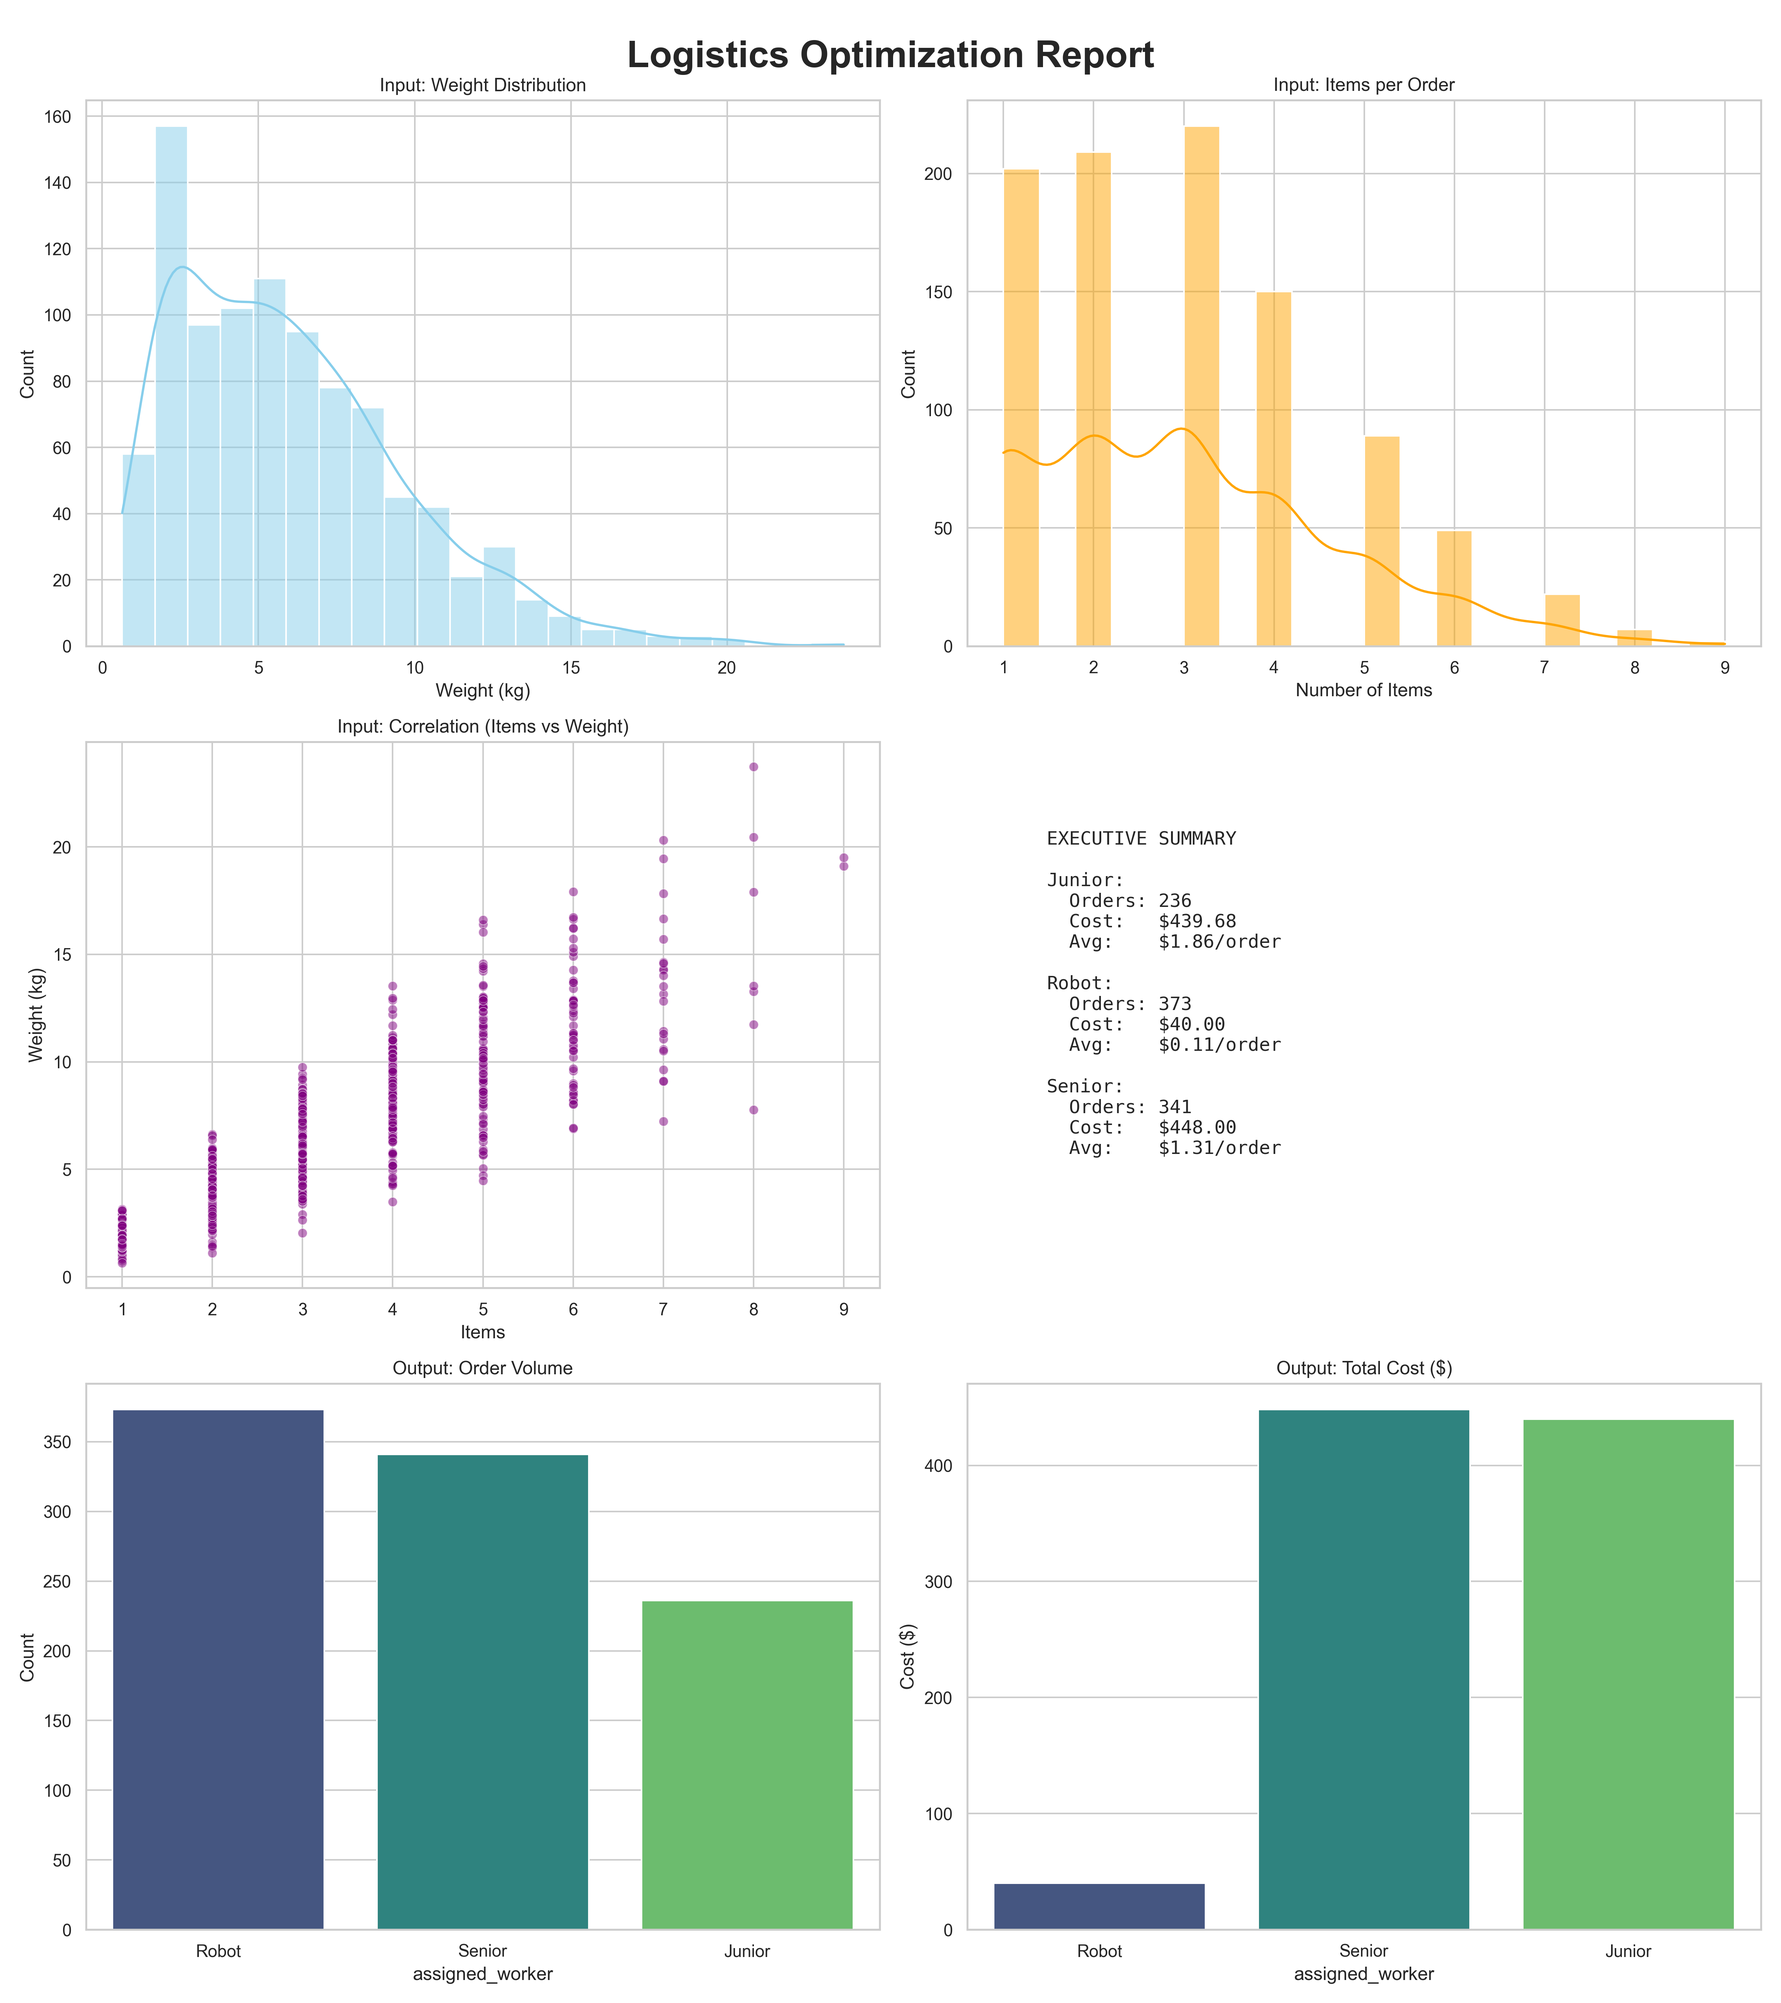
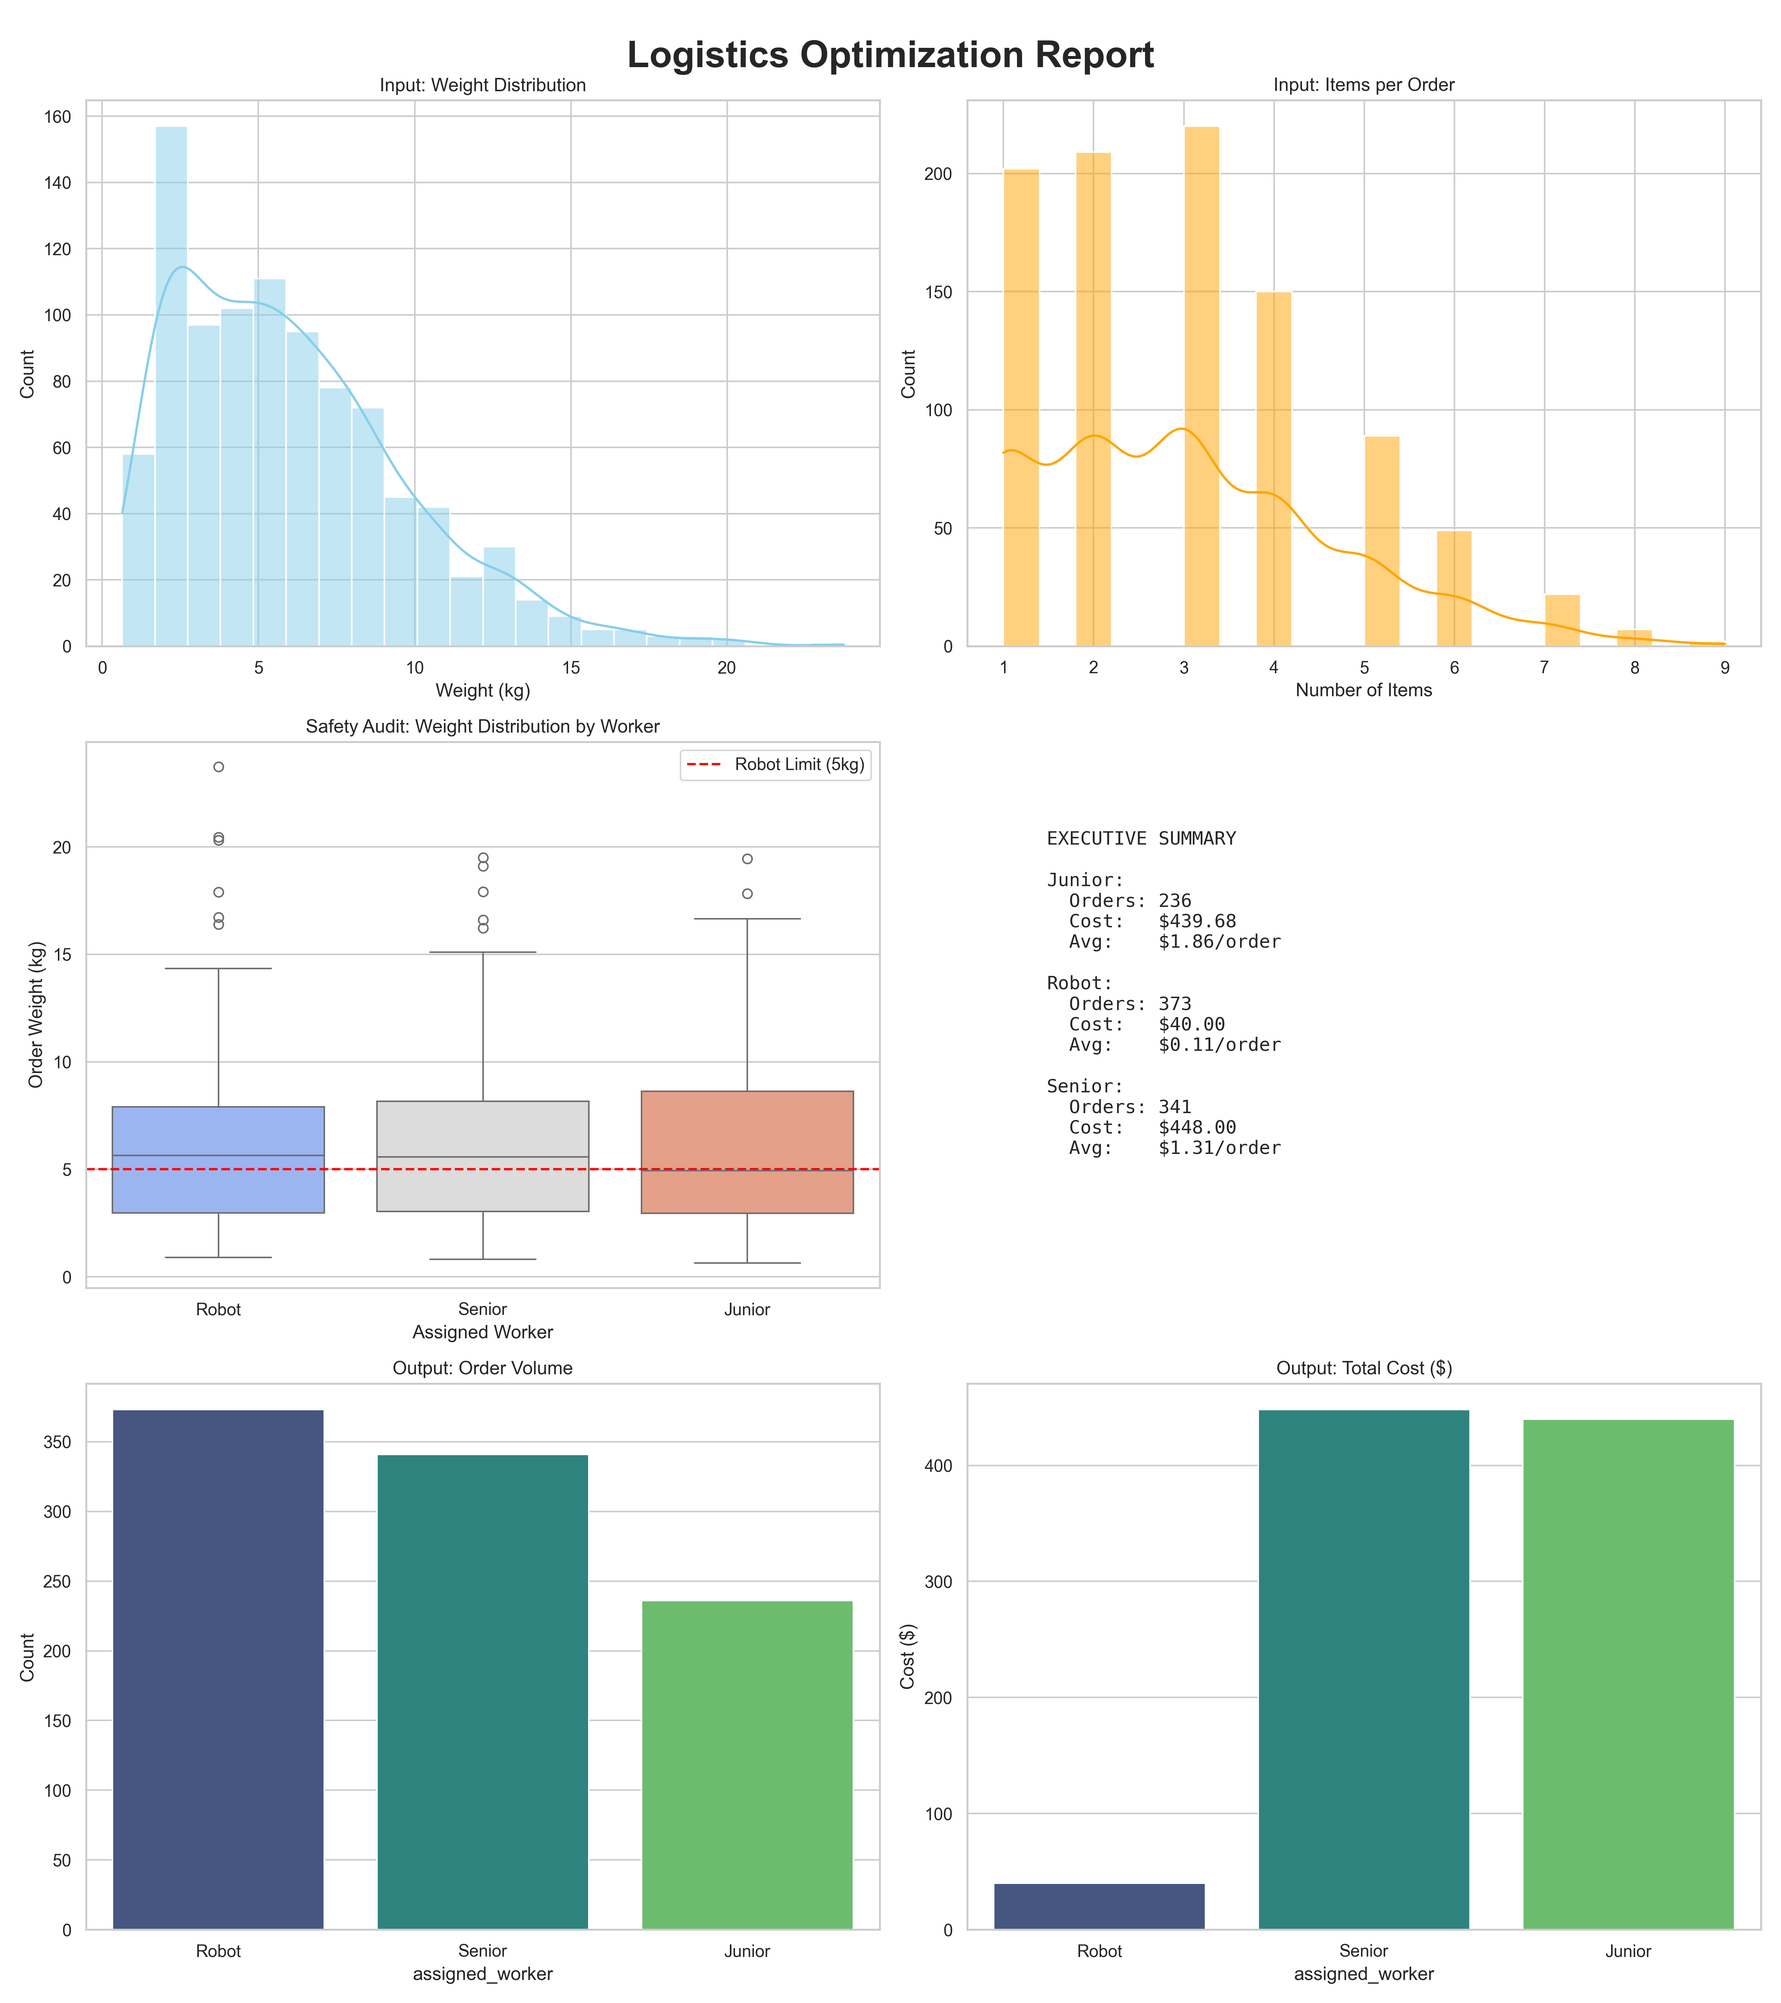
Day 5: Implemented main.py orchestration driver and fixed environment paths

diff --git a/src/visualize_logistics.py b/src/visualize_logistics.py
@@ -2,7 +2,7 @@ import sqlite3
 import pandas as pd
 import matplotlib.pyplot as plt
 import seaborn as sns
-from optimize_logistics import optimize_schedule, WORKERS, DB_PATH
+from setup_db import DB_PATH
 
 # --- CONFIGURATION ---
 OUTPUT_PATH = "reports/dashboard.png"
@@ -22,41 +22,23 @@ def load_data():
     conn.close()
     return df
 
-def run_optimization(df):
+def load_results():
     """
-    Gets solution by running optimizer and return results as a clean DataFrame
+    Loads the optimization results directly from the SQL 'assignments' table
     """
-    print("--- Running Optimization Model ---")
-
-    # 1. Run optimization
-    prob, choices, order_ids, worker_names = optimize_schedule(df)
-    
-    # 2. Extract results: Same logic used in save_results() from optimize_logistics
-    results = []
-    for i, row in df.iterrows():
-        oid = row['order_id']
-        assigned_worker = None
+    print("--- Loading Assignments from SQL ---")
+    conn = sqlite3.connect(DB_PATH)
+    try:
+        results_df = pd.read_sql_query("SELECT * FROM assignments", conn)
+        print(f"Loaded {len(results_df)} assignments.")
+    except Exception as e:
+        print(f"Error loading results: {e}")
+        print("Did you run the optimization step? The 'assignments' table might be missing.")
+        results_df = pd.DataFrame() # Return empty if failed
+    finally:
+        conn.close()
         
-        for worker in worker_names:
-            if choices[oid][worker].varValue > 0.5:
-                assigned_worker = worker
-                break
-        
-        # 3. Calculate specific cost for current assignment
-        if assigned_worker:
-            speed = WORKERS[assigned_worker]["speed"]
-            wage  = WORKERS[assigned_worker]["wage"]
-            cost  = (row['num_items'] / speed) * wage
-            
-            results.append({
-                "order_id": oid,
-                "assigned_worker": assigned_worker,
-                "cost": cost,
-                "num_items": row['num_items'],
-                "total_weight_kg": row['total_weight_kg']
-            })
-            
-    return pd.DataFrame(results)
+    return results_df
 
 # --- 1. MODULAR PLOTTING FUNCTIONS ---
 
@@ -112,9 +94,39 @@ def draw_summary_text(results_df, ax):
         
     ax.text(0.1, 0.5, text_str, fontsize=12, fontfamily='monospace', va='center')
 
+def plot_safety_audit(results_df, ax=None):
+    """
+    Visualizes the weight range handled by each worker type.
+    """
+    if ax is None: fig, ax = plt.subplots()
+    
+    worker_order = ["Robot", "Senior", "Junior"]
+    
+    # Box Plot: Shows the Median, Quartiles, and Outliers
+    sns.boxplot(
+        data=results_df, 
+        x="assigned_worker", 
+        y="total_weight_kg",   # Note: In run_optimization, we mapped 'total_weight_kg' to 'weight'
+        order=worker_order, 
+        palette="coolwarm", # distinct colors for contrast
+        ax=ax
+    )
+    
+    ax.set_title("Safety Audit: Weight Distribution by Worker")
+    ax.set_ylabel("Order Weight (kg)")
+    ax.set_xlabel("Assigned Worker")
+    
+    # Add a red reference line at 5kg (The hypothetical "Safe Limit")
+    ax.axhline(y=5, color='red', linestyle='--', linewidth=1.5, label='Robot Limit (5kg)')
+    ax.legend(loc='upper right')
+
 # --- 2. THE DASHBOARD BUILDER ---
 
 def save_dashboard(clean_df, results_df):
+    """
+    Generates the final 6-panel dashboard.
+    Updated: Replaced Scatter Plot with Safety Audit Box Plot.
+    """
     print("--- Generating 6-Panel Dashboard ---")
     
     # 3 Rows, 2 Columns (Size = 16x18 to fit everything)
@@ -125,8 +137,8 @@ def save_dashboard(clean_df, results_df):
     plot_weight_distribution(clean_df, ax=axes[0, 0])
     plot_items_distribution(clean_df, ax=axes[0, 1])
     
-    # Row 2: Correlation & Summary
-    plot_correlation(clean_df, ax=axes[1, 0])
+    # Row 2: Audit & Summary
+    plot_safety_audit(results_df, ax=axes[1, 0])
     draw_summary_text(results_df, ax=axes[1, 1]) # <--- The "Empty" Slot
     
     # Row 3: Outputs
@@ -140,14 +152,19 @@ def save_dashboard(clean_df, results_df):
     plt.show()
     print(f"Dashboard saved to {OUTPUT_PATH}")
 
-
 if __name__ == "__main__":
-    # 1. Load data
+    # 1. Load Inputs(initial data)
     df = load_data()
-    print(f"Raw Data Loaded: {len(df)} records.")
     
-    # 2. Run the optimization and catch the results
-    results_df = run_optimization(df)
+    # 2. Load Outputs (for the "After" charts)
+    results_df = load_results()
     
-    # 3. Output dashboard
-    save_dashboard(df, results_df)
+    if not results_df.empty:
+        # 3. Generate the Dashboard
+        save_dashboard(df, results_df)
+        
+        # 4. Show the Safety Audit (Pop-up for quick check)
+        # plot_safety_audit(results_df)
+        # plt.show()
+    else:
+        print("Skipping visualization because results are missing.")

diff --git a/src/optimize_logistics.py b/src/optimize_logistics.py
@@ -2,10 +2,9 @@ import sqlite3
 import pandas as pd
 import pulp
 from pathlib import Path
+from setup_db import DB_PATH
 
 # --- CONFIGURATION ---
-DB_PATH = Path("data/processed/fulfillment.db")
-
 # Time Horizon: 1 Day (8 Hour Shift)
 # Speed = Items per Hour
 # Wage = Dollars per Hour
@@ -51,9 +50,12 @@ def get_order_data():
     
     return df
 
-def optimize_schedule(df):
+def solve_model(df):
+    """
+    Constructs the LP problem, adds constraints, and calculates the optimal solution
+    Returns the raw PuLP objects needed to extract the answer
+    """
     print("\n--- OPTIMIZING ---")
-
     # 1. Initialize model: Use LpMinimize
     prob = pulp.LpProblem("Fulfillment_Cost_Minimization", pulp.LpMinimize)
     
@@ -66,7 +68,6 @@ def optimize_schedule(df):
     
     # 3. Define the objective variable: Cost = (Num Items / Speed) * Wage
     costs = []
-
     # Nested loop to calculate costs for each combination of order x worker
     for i, row in df.iterrows():
         oid = row['order_id']
@@ -81,6 +82,7 @@ def optimize_schedule(df):
 
             variable = choices[oid][worker]
             costs.append(cost_to_pack * variable)
+    
     # Objective Variable
     total_costs = pulp.lpSum(costs)
             
@@ -96,8 +98,7 @@ def optimize_schedule(df):
         worker_switches = [choices[oid][w] for w in worker_names]
 
         # Number of workers of each order = sum of worker switches
-        prob += pulp.lpSum(worker_switches) == 1, f"Single_Ownership_Order{oid}"
-        
+        prob += pulp.lpSum(worker_switches) == 1, f"Single_Ownership_Order{oid}"     
     print("Constraint added: Each order assigned to exactly one worker.")
     
     # Constraint 2: Daily Capacity Limits
@@ -115,10 +116,9 @@ def optimize_schedule(df):
         
         total_worked_hours = pulp.lpSum(worked_hours)
         prob += total_worked_hours <= limit, f"Max_Capacity_{worker}"
-        
     print("Constraint added: Shift capacity limits active.")
 
-    # 5. Solve the Problem
+    # 5. Solve
     prob.solve(pulp.PULP_CBC_CMD(msg=0))
     
     # Results
@@ -129,6 +129,10 @@ def optimize_schedule(df):
     return prob, choices, order_ids, worker_names
 
 def save_results(df, choices, workers):
+    """
+    Extracts the solution, saves it to SQL ('assignments' table)
+    Returns a clean DataFrame
+    """
     print("\n--- RESULTS ---")
     results = []
     
@@ -152,7 +156,9 @@ def save_results(df, choices, workers):
         results.append({
             "order_id": oid,
             "assigned_worker": assigned_worker,
-            "cost": cost
+            "cost": cost,
+            "num_items": row['num_items'],
+            "total_weight_kg": row['total_weight_kg']
         })
 
     # Convert to DataFrame
@@ -161,14 +167,18 @@ def save_results(df, choices, workers):
     # Print the summary
     print("Workforce Distribution:")
     print(results_df['assigned_worker'].value_counts())
-    
     print(f"\nTotal Cost of Operation: ${results_df['cost'].sum():,.2f}")
     
+    # Save to SQL
+    conn = sqlite3.connect(DB_PATH)
+    results_df.to_sql("assignments", conn, if_exists="replace", index=False)
+    conn.close()
+
     return results_df
     
 if __name__ == "__main__":
     orders_df = get_order_data()
-    prob, choices, orders, workers = optimize_schedule(orders_df)
+    prob, choices, orders, workers = solve_model(orders_df)
     
     # Only save results when solution exists
     if pulp.LpStatus[prob.status] == "Optimal":

diff --git a/src/main.py b/src/main.py
@@ -1,0 +1,83 @@
+import logging
+import sys
+import subprocess
+import pandas as pd
+
+import optimize_logistics
+import visualize_logistics
+import export_for_bi
+
+# --- CONFIGURATION ---
+# Configure a "Logger" to format the console output
+logging.basicConfig(
+    level=logging.INFO,
+    format="%(asctime)s [%(levelname)s] %(message)s",
+    handlers=[
+        logging.FileHandler("pipeline.log"), # Saves logs to a file
+        logging.StreamHandler(sys.stdout)    # Prints to console
+    ]
+)
+logger = logging.getLogger()
+
+def run_script(script_name):
+    """
+    Helper function to run standalone scripts using the terminal command 'python script_name'
+    """
+    logger.info(f"Running Script: {script_name}...")
+    try:
+        # This runs the command "python src/script_name.py"
+        subprocess.run([sys.executable, f"src/{script_name}.py"], check=True)
+        logger.info(f"{script_name} completed successfully.")
+    except subprocess.CalledProcessError as e:
+        logger.error(f"{script_name} FAILED. Stopping pipeline.")
+        sys.exit(1) # Stop the program immediately
+
+def main():
+    logger.info("==========================================")
+    logger.info("   AUTOMATED FULFILLMENT CENTER PIPELINE  ")
+    logger.info("==========================================")
+
+    # --- PHASE 1: INFRASTRUCTURE & INPUT ---
+    # We use run_script for these because they are likely standalone scripts
+    # that perform actions (create tables, insert data) rather than returning values.
+    
+    run_script("generate_data") 
+    run_script("setup_db")
+    run_script("analyze_corruption")
+
+    # --- PHASE 2: PROCESSING (ETL & OPTIMIZATION) ---
+    
+    run_script("clean_data") # Creates the clean_orders view
+    
+    # For Optimization, we use the nice modular functions we built!
+    logger.info("Starting Optimization Engine...")
+    
+    # 1. Load Data
+    conn = visualize_logistics.sqlite3.connect(visualize_logistics.DB_PATH)
+    clean_df = pd.read_sql_query("SELECT * FROM clean_orders", conn)
+    conn.close()
+    
+    # 2. Run Solver
+    prob, choices, orders, workers = optimize_logistics.solve_model(clean_df)
+    
+    # 3. Save Results (The Persistence)
+    optimize_logistics.save_results(clean_df, choices, workers)
+    logger.info("✅ Optimization complete.")
+
+    # --- PHASE 3: OUTPUT (VISUALIZATION & BI) ---
+    
+    logger.info("Generating Reports...")
+    
+    # Generate Dashboard
+    results_df = visualize_logistics.load_results()
+    visualize_logistics.save_dashboard(clean_df, results_df)
+    
+    # Export for BI
+    export_for_bi.export_data()
+    
+    logger.info("==========================================")
+    logger.info("         PIPELINE FINISHED SUCCESS        ")
+    logger.info("==========================================")
+
+if __name__ == "__main__":
+    main()

diff --git a/src/export_for_bi.py b/src/export_for_bi.py
@@ -1,0 +1,42 @@
+import sqlite3
+import pandas as pd
+import os
+import visualize_logistics
+
+# --- CONFIGURATION ---
+from setup_db import DB_PATH
+EXPORT_DIR = "data/bi_exports"
+OUTPUT_PATH = os.path.join(EXPORT_DIR, "fulfillment_bi_data.csv")
+
+def export_data():
+    """
+    Exports clean CSVs for Power BI / Tableau
+    Joins the Orders and the Assignments to create a 'Master Table'
+    """
+    print(f"--- Exporting Data to {EXPORT_DIR} ---")
+    
+    # 1. Ensure directory exists
+    os.makedirs(EXPORT_DIR, exist_ok=True)
+    
+    # 2. Load Data (Raw Orders)
+    conn = sqlite3.connect(DB_PATH)
+    orders_df = pd.read_sql_query("SELECT * FROM clean_orders", conn)
+    conn.close()
+    
+    # 3. Load Optimization Results
+    results_df = visualize_logistics.load_results()
+    
+    # 4. Feature Engineering for BI
+    results_df['is_safety_violation'] = results_df.apply(
+        lambda row: 'Violation' if (row['assigned_worker'] == 'Robot' and row['total_weight_kg'] > 5) else 'Safe', 
+        axis=1
+    )
+    
+    # 5. Export to CSV
+    results_df.to_csv(OUTPUT_PATH, index=False)
+
+    print(f"Success! Data exported to: {OUTPUT_PATH}")
+    print("Columns exported:", list(results_df.columns))
+
+if __name__ == "__main__":
+    export_data()
